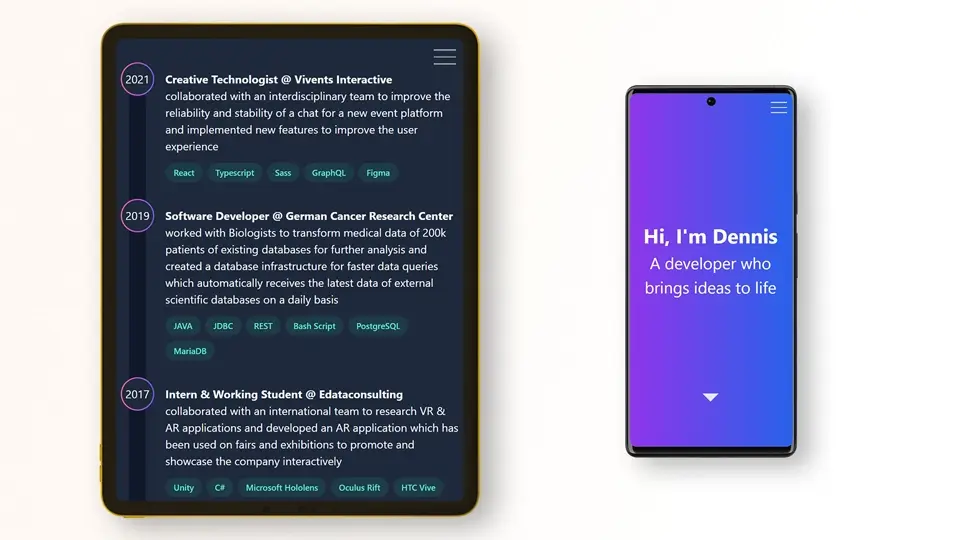
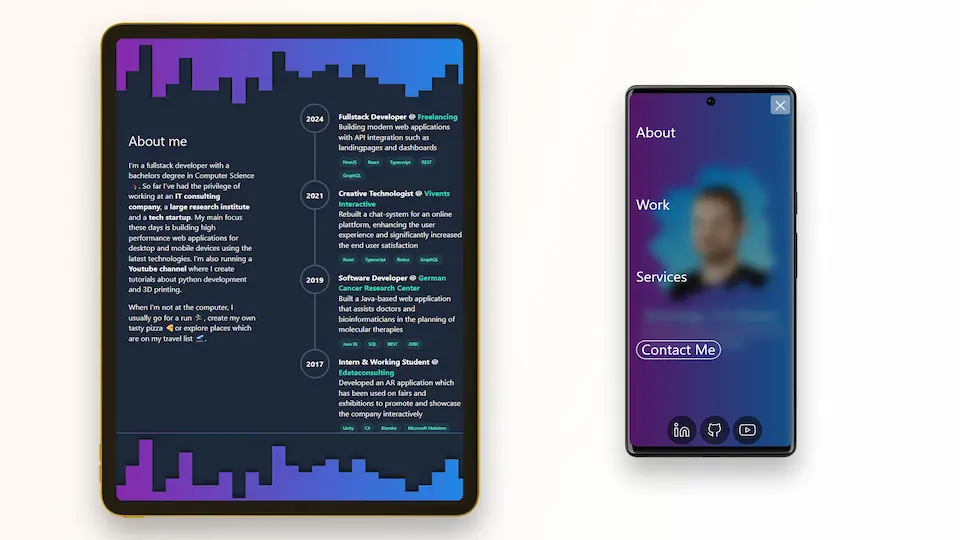
FIX: responsive menu, improved lighthouse score, placement arror

Changed region(s): [[0.0938, 0.0296, 0.5312, 1.0], [0.625, 0.1481, 0.8438, 0.8889]]

diff --git a/src/data/data.tsx b/src/data/data.tsx
@@ -1,20 +1,13 @@
 const frutinator = "/images/MobileView.webp";
 const portfolio = "/images/PortfolioPage.webp";
 const jblaster = "/images/Monomind.webp";
-const pyblaster = "/images/PyBlaster.webp";
 const frem = "/images/KivyDesktop.webp";
-const arcreactor = "/images/quarkreactor.webp";
-// import Image from "next";
-// import raspibot from "../assets/images/RaspiBot.webp"
 
 const data = [
-    {title: "Fruitinator", image: frutinator, link: "https://www.fruitinator.org", tags: ["React.js","Javascript", "MobX", "SASS"], text: "An e-commerce frontend to shop for exotic fruits on desktop and mobile devices"},
-    {title: "Portfolio Website", image: portfolio, link: "https://www.pygineer.info", tags: ["Next.js","Typescript","Tailwind CSS"], text: "Portfolio single page website with mobile first design philosophy hosted on Github Pages"},
-    {title: "Monomind", image: jblaster, link: "https://www.monomind.info", tags: ["React.js","Typescript","Web Audio API", "CSS"], text: "Monophonic synthesizer to play and record synth bass lines from the 80s"},
-    // {title: "PyBlaster", image: pyblaster, link: "https://github.com/denczo/pyblaster", tags: ["Python","Tkinter","Matplotlib", "PyAudio", "DSP"], text: "Monophonic synthesizer inspired by Korgs Kaossilator series with Midi, ADSR, LFO, Filter"},
+    {title: "Fruitinator.org", image: frutinator, link: "https://www.fruitinator.org", tags: ["React.js","Javascript", "MobX", "SASS"], text: "A responsive e-commerce frontend for exotic fruit shopping on desktop and mobile"},
+    {title: "Fullstacklab.net", image: portfolio, link: "https://www.fullstacklab.net", tags: ["Next.js","Typescript","Tailwind CSS"], text: "A single-page application with responsive design that highlights professional work and services"},
+    {title: "Monomind.info", image: jblaster, link: "https://www.monomind.info", tags: ["React.js","Typescript","Web Audio API", "CSS"], text: "A monophonic synthesizer to play and record synth bass lines from the 80s"},
     {title: "FREM", image: frem, link: "https://github.com/denczo/FREM", tags: ["Python","Kivy","Android","Buildozer"], text: "An android app to explain and demonstrate the concepts of frequency modulation for dsp"},
-    // {title: "Arc Reactor", image: arcreactor, link: "https://github.com/denczo/arcreactor", tags: ["C","Blender","Cura"], text: "Illuminated Arc Reactor controlled by an Arduino Nano. It was modeled in Blender and 3d printed."},
-    // {title: "Raspberry Bot", image: raspibot, link: "https://github.com/denczo/RaspberryBot", tags: ["Python","Machine Learning","Raspberry Pi"], text: "A robot that uses reinforcement learning to find and follow a black line."},
 ]
 export default data;
 

diff --git a/src/components/layout/Services.tsx b/src/components/layout/Services.tsx
@@ -1,20 +1,17 @@
 import ContactBtn from "../navigation/menu/elements/ContactBtn";
-import MenuItem from "../navigation/menu/elements/MenuItem";
 import Service from "../static/Service";
 
 const Services = () => {
   return (<div id="Services" className="flex text-white min-h-full flex-col items-center bg-slate-800">
-            <img className="w-full h-44" src="/transitions/transition_gradient.svg" alt="transition" />
-            <p className="flex text-4xl mb-8 mt-8 justify-center text-white font-bold">Services</p>
-
-            <div className="flex desktop:flex-row mobile:flex-col mobile:items-center flex-grow justify-around text-center">
-              <Service hl="Single Page Applications" desc="Development of responsive web apps such as portfolios, landingpages and dashboards" img="/icons/SPA_Icon.svg"/>
-              <Service hl="API Integration" desc="Seamless integration into your solution for dynamic content delivery" img="/icons/API_Icon.svg"/>
-              <Service hl="SEO Optimization" desc="Enhancing visibility and rankings of your web application" img="/icons/SEO_Icon.svg"/>
-            </div>
-            
-              <p className="desktop:text-[40px] mobile:text-[24px] font-bold text-center mb-4">You have a project? Get in Touch</p>
-              <ContactBtn title={"Contact Me"}/>
+    <img className="w-full h-44" src="/transitions/transition_gradient.svg" alt="transition" />
+    <p className="flex text-4xl mb-8 mt-8 justify-center text-white font-bold">Services</p>
+    <div className="flex desktop:flex-row mobile:flex-col mobile:items-center flex-grow justify-around text-center">
+      <Service hl="Single Page Applications" desc="Development of responsive web apps such as portfolios, landingpages and dashboards" img="/icons/SPA_Icon.svg" />
+      <Service hl="API Integration" desc="Seamless integration into your solution for dynamic content delivery" img="/icons/API_Icon.svg" />
+      <Service hl="SEO Optimization" desc="Enhancing visibility and rankings of your web application" img="/icons/SEO_Icon.svg" />
+    </div>
+    <p className="desktop:text-[40px] mobile:text-[24px] font-bold text-center mb-4">You have a project? Get in Touch</p>
+    <ContactBtn title={"Contact Me"} />
   </div>);
 }
 

diff --git a/src/components/layout/Hero.tsx b/src/components/layout/Hero.tsx
@@ -1,7 +1,7 @@
 import { motion } from 'framer-motion';
 import Link from 'next/link';
 import Typing from '../static/Typing';
-import SocialMedia from '../static/SocialMedia';
+import SocialMedia from '../navigation/links/SocialMedia';
 import Arrow from '../static/Arrow';
 
 
@@ -9,9 +9,10 @@ const variants = {
   hidden: { opacity: 1, y: 0 },
   visible: { opacity: 0, y: -50 },
 }
+
 function Hero() {
-  return (<div className="flex justify-center flex-col min-h-screen desktop:p-20 mobile:p-6 bg-gradient-to-r from-gradientRight to-gradientLeft">
-    <div className="flex desktop:flex-row desktop:items-center mobile:flex-col-reverse w-full desktop:h-full">
+  return (<div className="flex items-center flex-col min-h-screen desktop:px-20 mobile:p-6 bg-gradient-to-r from-gradientRight to-gradientLeft">
+    <div className="flex mobile:justify-center desktop:flex-row desktop:items-center mobile:flex-col-reverse w-full flex-1">
       <div className="flex flex-col z-20 pointer-events-none text-white desktop:w-3/5 mobile:w-full mobile:text-center">
       <motion.div initial="visible" animate="hidden" variants={variants}>
         <p className="desktop:text-[5vw] mobile:text-[8vw] font-bold text-lightcyan w-full">Greetings, I&apos;m Dennis</p>
@@ -32,7 +33,7 @@ function Hero() {
         <img className="mobile:w-full mobile:max-w-xl object-contain self-center animate-scalepulse" src="/images/portraitBrush.webp" alt="Portrait" />
       </motion.div>
     </div>
-    <div className="absolute inset-0 flex items-end bottom-10 justify-center z-10">
+    <div className="desktop:absolute inset-0 flex items-end py-2 desktop:bottom-10 justify-center z-10">
       <Link href={"/#About"} aria-label='About' >
           <Arrow />
        </Link>

diff --git a/src/components/navigation/menu/elements/ContactBtn.tsx b/src/components/navigation/menu/elements/ContactBtn.tsx
@@ -3,7 +3,12 @@ import { useGlobalState } from "../../../../contexts/GlobalStateContext";
 
 const ContactBtn = ({title}:{title:string}) => {
     
-    const { isModalOpen, isMenuOpen, toggleModal } = useGlobalState();
+    const { isModalOpen, isMenuOpen, toggleModal, exitMenu } = useGlobalState();
+
+    const handleClick = () => {
+        exitMenu();
+        toggleModal();
+    }
 
     useEffect(() => {
         if (isMenuOpen || isModalOpen) {
@@ -13,9 +18,9 @@ const ContactBtn = ({title}:{title:string}) => {
         }
     }, [isMenuOpen, isModalOpen]);
     
-    return (<div className='flex items-center cursor-pointer'>
-        <a aria-label={title} className={"transition ease-in-out duration-300 text-center border-2 border-white rounded-3xl px-3 pb-1 hover:bg-white hover:text-black"} onClick={toggleModal} >{title}</a>
-        </div>
+    return (<button className='flex items-center cursor-pointer'>
+        <div aria-label={title} className={"transition ease-in-out duration-300 text-center border-2 border-white rounded-3xl px-3 pb-1 hover:bg-white hover:text-black"} onClick={handleClick} >{title}</div>
+        </button>
     );
 }
 

diff --git a/src/components/navigation/menu/BurgerMenu.tsx b/src/components/navigation/menu/BurgerMenu.tsx
@@ -1,4 +1,4 @@
-import SocialMedia from "../../../components/static/SocialMedia";
+import SocialMedia from "../links/SocialMedia";
 import Burger from "./elements/Burger";
 import Close from "./elements/Close";
 import Menu from "./elements/Menu";
@@ -11,7 +11,7 @@ const BurgerMenu = () => {
         hidden: { opacity: 1, y: 0 },
         visible: { opacity: 0, y: -50 },
     }
-    const { isMenuOpen, toggleMenu } = useGlobalState();
+    const { isMenuOpen, toggleMenu, exitMenu } = useGlobalState();
 
     useEffect(() => {
         if (isMenuOpen) {
@@ -19,6 +19,12 @@ const BurgerMenu = () => {
         } else {
             document.body.classList.remove("overflow-y-hidden")
         }
+
+        window.addEventListener('resize', exitMenu);
+
+        return () => {
+          window.removeEventListener('resize', exitMenu);
+        };
     }, [isMenuOpen]);
 
     return (<div className="desktop:hidden">

diff --git a/src/components/static/Timeline.tsx b/src/components/static/Timeline.tsx
@@ -10,8 +10,6 @@ const Timeline = () => {
         <div className="flex justify-center items-center text-white rounded-full desktop:w-20 mobile:mt-6 desktop:h-20 mobile:w-12 mobile:h-12 bg-slate-600">
           <div className="flex desktop:h-[72px] desktop:w-[72px] mobile:h-[45px] mobile:w-[45px] bg-slate-800 desktop:font-bold rounded-full justify-center items-center">{item.year.toString()}</div>
         </div>
-        {/* <div className="flex desktop:h-[64px] desktop:w-[64px] mobile:h-[45px] mobile:w-[45px] bg-slate-800 desktop:font-bold rounded-3xl justify-center items-center">{item.year.toString()}</div> */}
-
         {index < data.length - 1 ?
           <div className="mobile:w-6 desktop:w-1 bg-slate-600 m-auto h-full"></div> : <div className="h-16"></div>}
       </div>

diff --git a/src/components/navigation/menu/elements/MenuItem.tsx b/src/components/navigation/menu/elements/MenuItem.tsx
@@ -2,10 +2,10 @@ import { useGlobalState } from "../../../../contexts/GlobalStateContext";
 
 const MenuItem = ({title}:{title:string}) => {
     
-    const { toggleMenu } = useGlobalState()
+    const { isMenuOpen, toggleMenu } = useGlobalState()
 
     return (<div className='flex items-center'>
-        <a aria-label={title} className={"transition ease-in-out duration-300 text-center hover:text-violet-400 "} onClick={toggleMenu} href={"/#"+title}>{title}</a>
+        <a aria-label={title} className={"transition ease-in-out duration-300 text-center hover:text-violet-400 "} onClick={isMenuOpen? toggleMenu : undefined} href={"/#"+title}>{title}</a>
         </div>
     );
 }

diff --git a/src/app/layout.tsx b/src/app/layout.tsx
@@ -2,7 +2,7 @@ import { Metadata } from "next"
 
 export const metadata: Metadata = {
     title: 'FullstackLab.net | Dennis-Immanuel Czogalla - Fullstack Developer',
-    description: "I'm a fullstack developer who builds high performance web applications for desktop and mobile devices.",
+    description: "I'm a fullstack developer specialized in React.js, Next.js and Typescript who builds innovative web applications for desktop and mobile devices.",
   }
 
 export default function RootLayout({

diff --git a/src/types/types.d.tsx b/src/types/types.d.tsx
@@ -1,12 +1,12 @@
 export interface ServiceData {
-    hl: string;
-    desc: string;
-    img: string;
-  }
+  hl: string;
+  desc: string;
+  img: string;
+}
 
-  export interface ScrollPosition {
-    x: number;
-    y: number;
+export interface ScrollPosition {
+  x: number;
+  y: number;
 }
 
 export interface GlobalState {
@@ -14,4 +14,5 @@ export interface GlobalState {
   toggleModal: () => void;
   isMenuOpen: boolean;
   toggleMenu: () => void;
+  exitMenu: () => void;
 }

diff --git a/src/components/navigation/menu/elements/Burger.tsx b/src/components/navigation/menu/elements/Burger.tsx
@@ -1,5 +1,5 @@
 const Burger = () => {
-    return (<button className="relative px-6 py-6 bg-slate-200 bg-opacity-50 rounded-md">
+    return (<button aria-label="Burger Menu Button" className="relative px-6 py-6 bg-slate-200 bg-opacity-50 rounded-md">
         <div className="absolute space-y-2 z-50 -translate-y-1/2 -translate-x-1/2">
             <div className="w-8 h-1 bg-white animate-pulse"></div>
             <div className="w-8 h-1 bg-white animate-pulse"></div>

diff --git a/src/contexts/GlobalStateContext.tsx b/src/contexts/GlobalStateContext.tsx
@@ -26,11 +26,16 @@ export const GlobalStateProvider = ({ children }: {children: any}) => {
     setModalOpen(prevState => !prevState);
   };
 
+  const exitMenu = (): void => {
+    setMenuOpen(false);
+  };
+
   const value: GlobalState = {
     isMenuOpen,
     toggleMenu,
     isModalOpen,
     toggleModal,
+    exitMenu,
   };
 
   return (

diff --git a/src/components/layout/Footer.tsx b/src/components/layout/Footer.tsx
@@ -1,4 +1,4 @@
-import SocialMedia from "../static/SocialMedia";
+import SocialMedia from "../navigation/links/SocialMedia";
 
 function Footer() {
   return (<footer className="flex flex-col items-center bg-gradient-to-r from-gradientRight to-gradientLeft">
